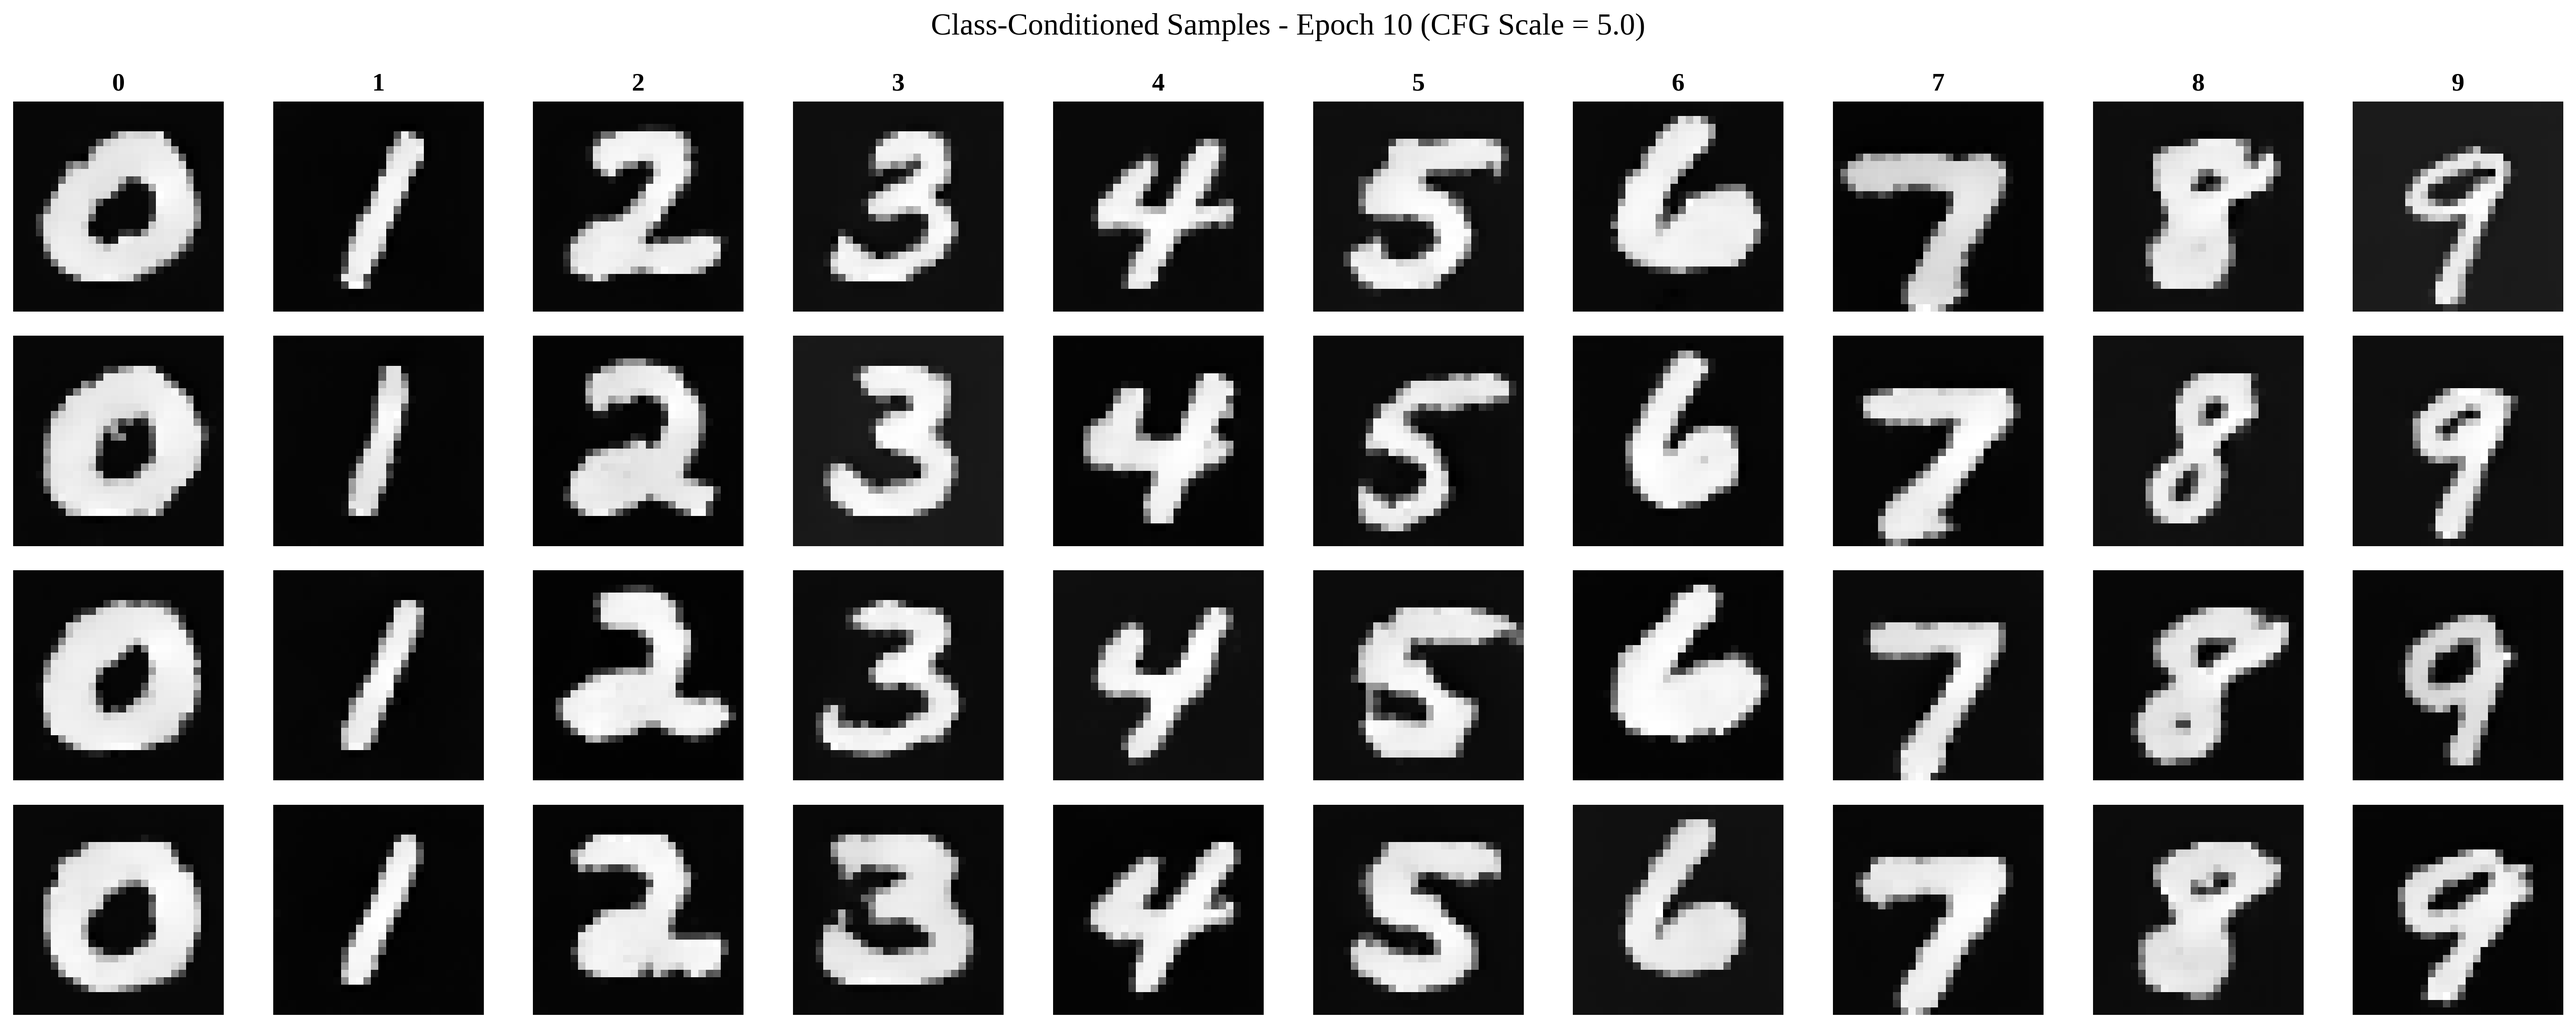
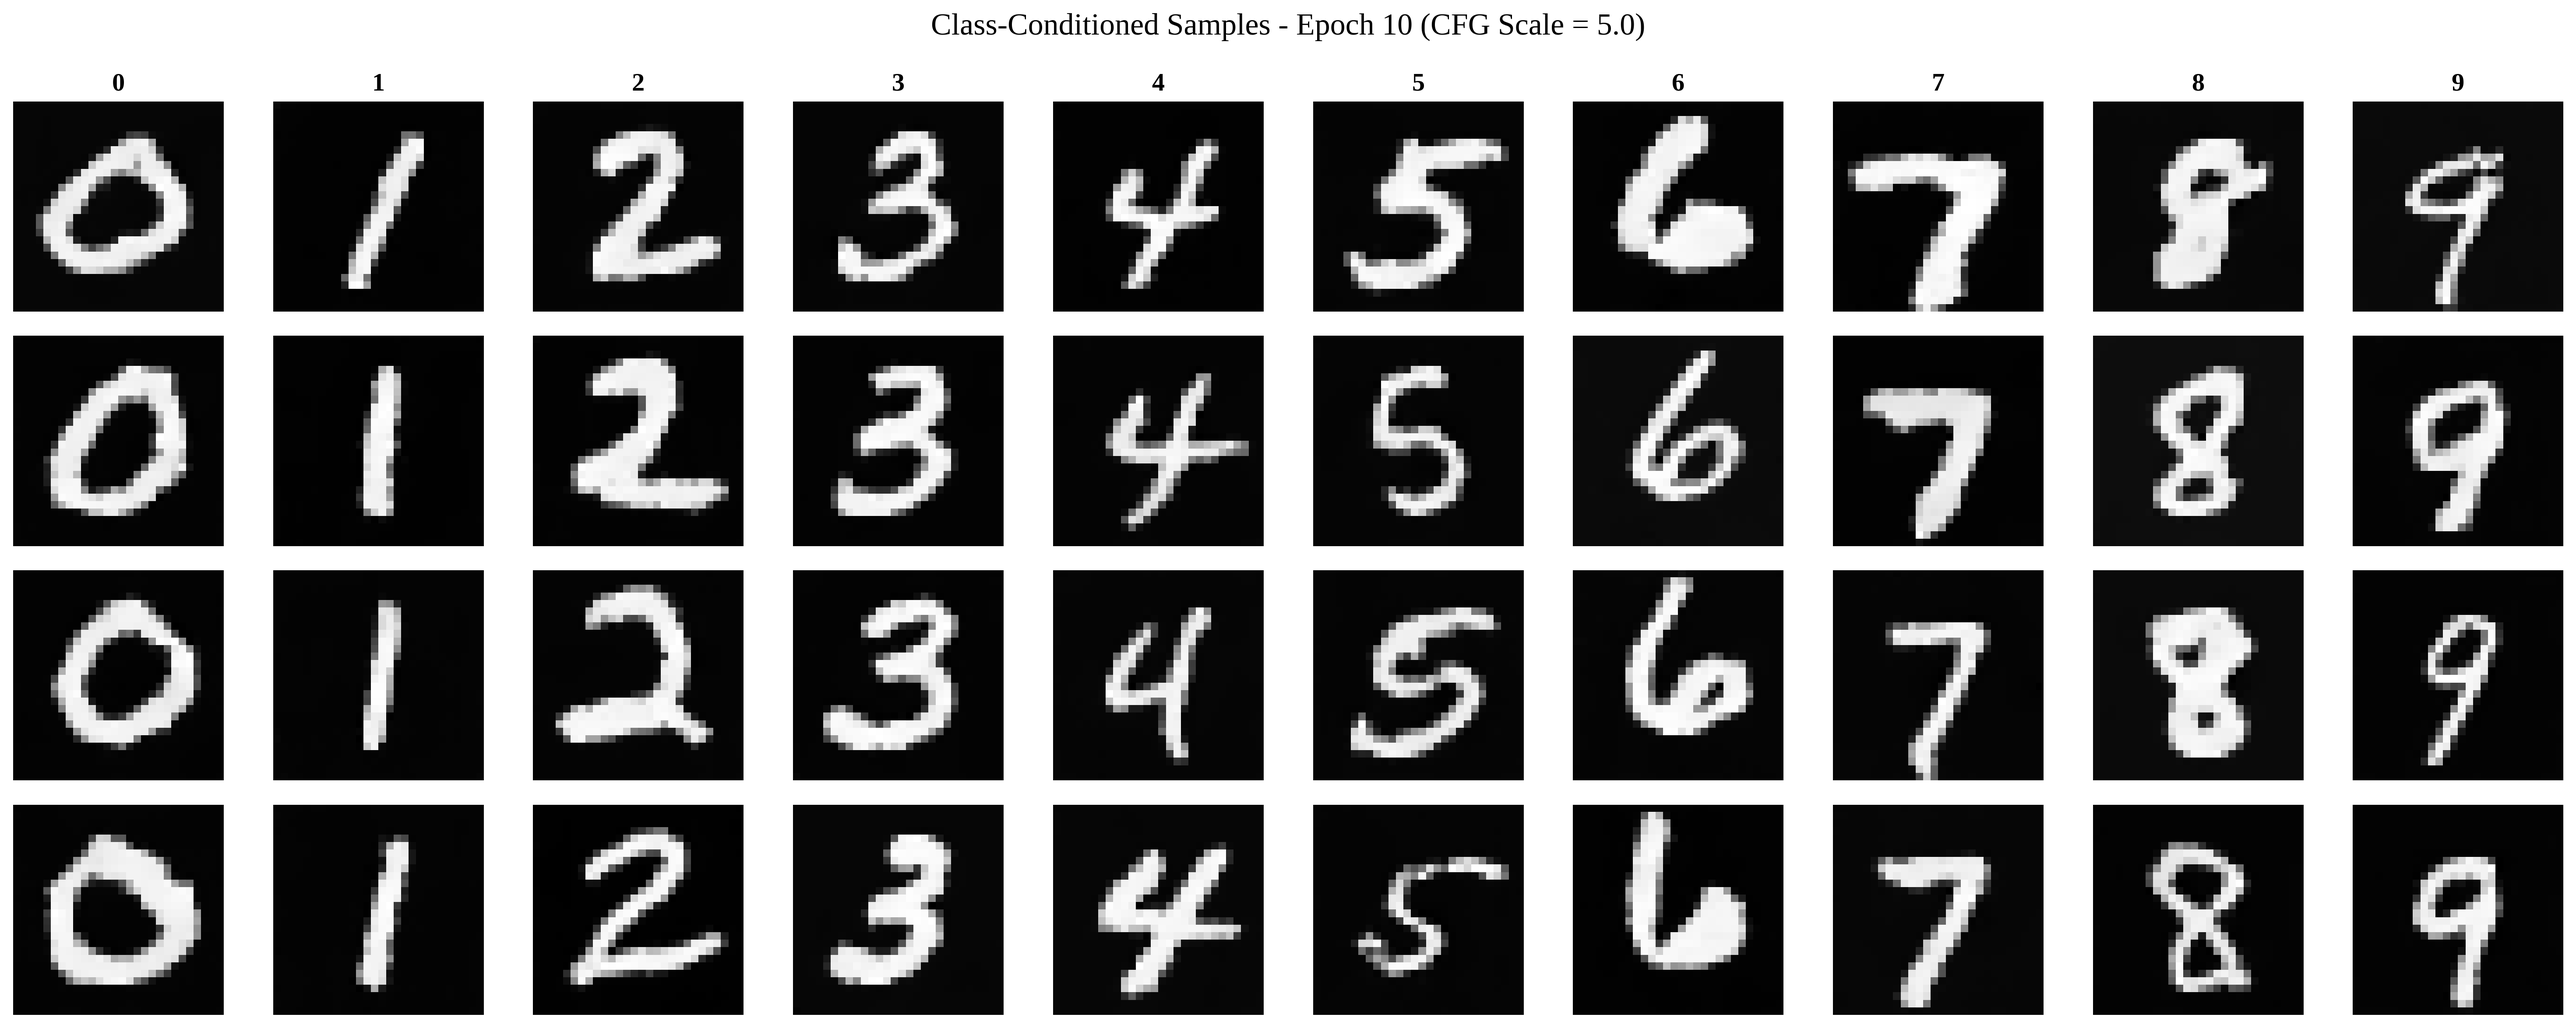
all

diff --git a/project5/index.html b/project5/index.html
@@ -106,7 +106,6 @@
 <body>
 
 
-<!-- 
 
 <h1>Project 5A: The Power of Diffusion Models</h1>
 <h2>Part 0: Set Up</h2>
@@ -441,7 +440,7 @@
                                                         This is common when training models with MSE loss with very noisy/volatile data, where the model attempts to overlook the task at hand and instead minimzes L2 loss with an average guess. The model would end up doing this if it found no good patterns in the data, as the sum of squared distances to all training examples is minimized by predicting the mean of all examples in that case. 
                                                         Our model is trained on pure noise, and isn't given a direction to help learn anything on the noise. So, on our model, the average best-guess output looks, naturally, like the blurry digit-accumulation generated above. </p>
                                                         <p> And since on the training curve we saw that there's little decrease in loss from Epoch 1 to Epoch 5, we don't expect the model to improve much between these two epochs and is why there's similar output results between the two. </p>
- -->
+ 
 
 
 
@@ -471,10 +470,20 @@
                                             <p> Hyperparameters: </p> <ul> <li>batch_size = 64</li> <li>(starting) learning_rate = 1e-2</li><li>num_epochs = 10</li> <li>hidden_dim = 64</li> <li>scheduler gamma = 0.1**(1/num_epochs) </li> <li> in-dimensions to unet: 1 </li> </ul>
 
                                                                      <h3> Training loss: class-conditioned UNet over all 10 epochs. </h3> <figure> <img src = "part B pt2/addclasscond/training_curve.png" >  <figcaption>Training Loss Curve: Low loss achieved </figcaption></figure> <p> Loss quickly decreases and begins to converge across all 10 epochs. The faint green lines demark the end of an epoch. </p>
-<h2> 2.6 Sampling from the UNet </h2>
+<h2> 2.6 Sampling from the UNet </h2> To actually see the results from the class-conditioned UNet, I sampled from the model using classifer-free guidance, with guidance scale <code> gamma = 5.0 </code>. <p> First, I start with a noisy image x0 sampled from Gaussian noise. Then, from t = 0 (noisy) to t = 1 (clean), I iterate along the flow in small stepsizes (stepsize = 1/T).Per iteration, I first predict the unconditioned flow <code>u_uncond</code> with the class conditioning vector <code>c</code> set to be a vector of all 0s. This predicts the flow vector ignoring target class. Then, I predict the conditioned flow <code>u_cond</code> with the class conditioning vector <code> c </code> to predict the flow vector for the desired class. Then, I apply Classifer-free guidance, using the formula in line 6. I find the guided flow vector <code> u = u_uncond + gamma * (u_cond - u_uncond) </code>. This pushes us toward the feature space of the desired class determined by <code> c</code> by a factor proportional to <code> gamma </code>. Then, we update x_t, our running prediction, by incorporating the guided flow vector. This repeats until t = 1 and we predict x_1.<br> This is the algorithm implemented in the samplinng process:</p> <figure> <img src = "part B pt2/alg4.png" > </figure>
+
+                                                        <h3> Sampling results from the Class-Conditioned UNet for 1, 5, and 10 epochs: </h3>      <div class = "image-column">   <figure> <img src = "part B pt2/addclasscond/class_conditional_samples_epoch_1.png" style="width:800px;">  <figcaption> Epoch 1 </figcaption>  </figure> 
+                                                                                                                                                                                 <figure> <img src = "part B pt2/addclasscond/class_conditional_samples_epoch_5.png" style="width:800px;">  <figcaption> Epoch 5 </figcaption>  </figure> 
+                                                                                                                                                                                 <figure> <img src = "part B pt2/addclasscond/class_conditional_samples_epoch_10.png" style="width:800px;"> <figcaption> Epoch 10 </figcaption>  </figure></div>
+
+<h2> Simplicity is best: getting rid of the learning rate scheduler. </h2> <p> I tried to maintain the same performance after removing the exponential learning rate scheduler. Learning rate schedulers have the intended purpose of controlling how fast a model learns across epochs, enabling more stable and accurate convergence. Early in training, step sizes are large and become smaller as training progresses, to avoid an overshooting of the minimum. Since the model's training loss with the scheduler consistently decreases over time, I accounted for the lack of a scheduler by just starting with a lower learning rate to begin with. </p>
+                                                                <h3> Comparing Training Loss: With and Without Scheduler </h3> <figure> <img src = "part B pt2/nosched/training_curve.png" >  <figcaption>Training Loss Curve Comparison: Both achieve low loss </figcaption></figure> <p> Both models achieve similar low loss after 10 epochs of training. The model without the scheduler (blue) has a slightly more volatile loss curve and has a lower loss at initial epochs, but still decreases overall. </p>
+                                                                <h3> No scheduler: Sampling results from the Class-Conditioned UNet for 1, 5, and 10 epochs: </h3>      <div class = "image-column">   <figure> <img src = "part B pt2/nosched/class_conditional_samples_epoch_1.png" style="width:800px;">  <figcaption> Epoch 1 </figcaption>  </figure> 
+                                                                                                                                                                                                       <figure> <img src = "part B pt2/nosched/class_conditional_samples_epoch_5.png" style="width:800px;">  <figcaption> Epoch 5 </figcaption>  </figure> 
+                                                                                                                                                                                                       <figure> <img src = "part B pt2/nosched/class_conditional_samples_epoch_10.png" style="width:800px;"> <figcaption> Epoch 10 </figcaption>  </figure></div>
 
 
-
+<h2> the end </h2>
 
 
 
